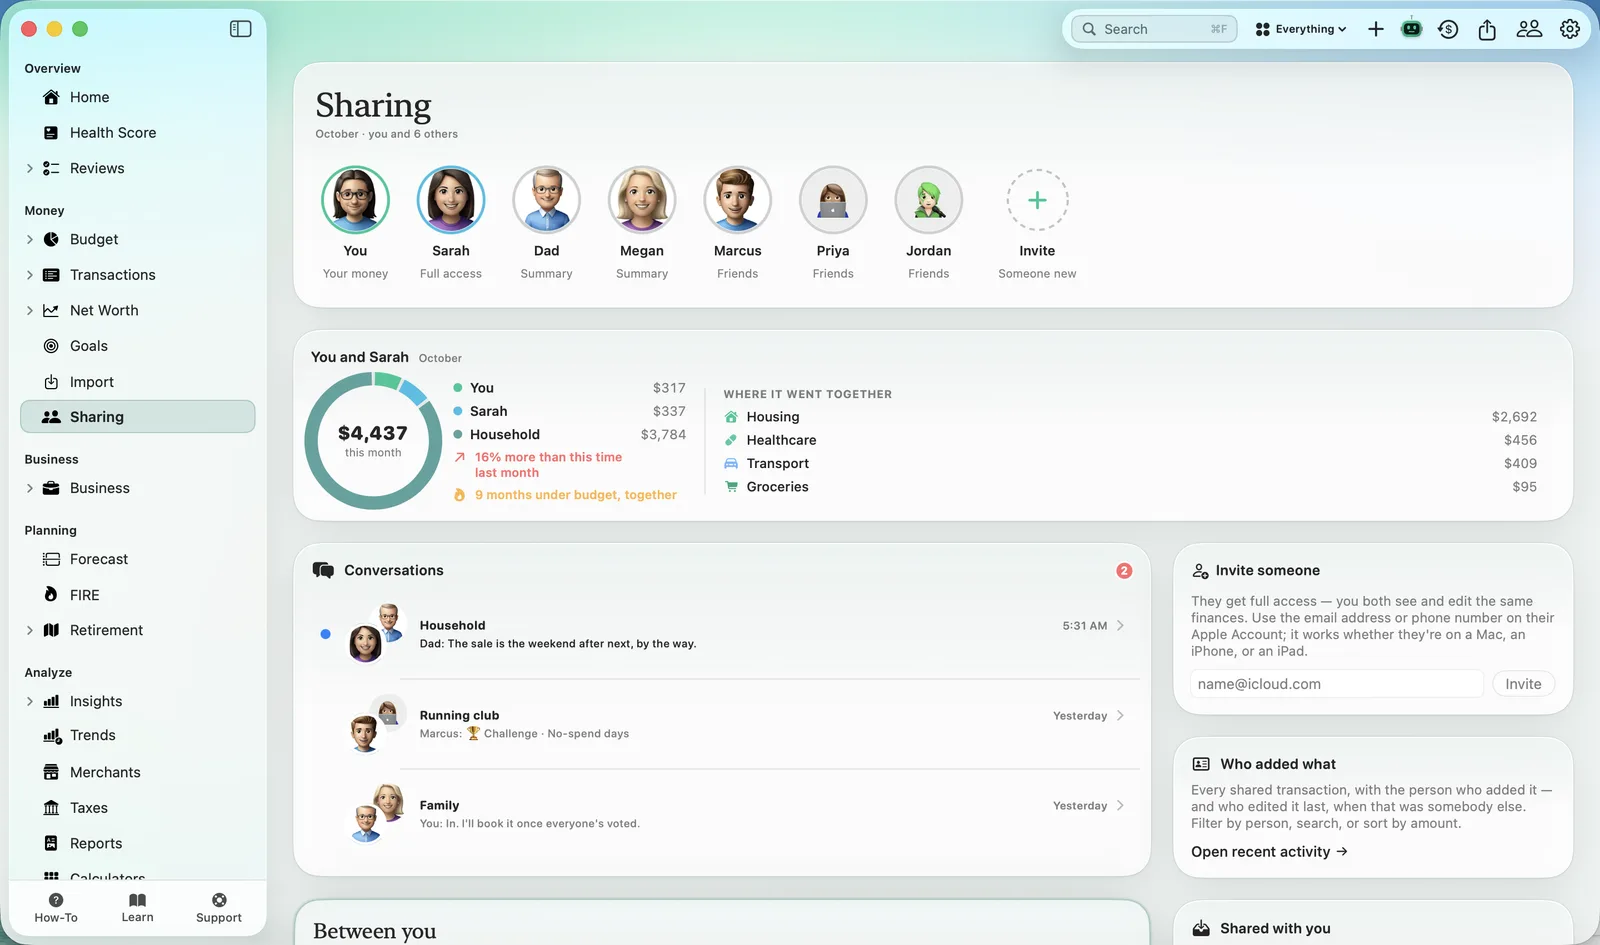
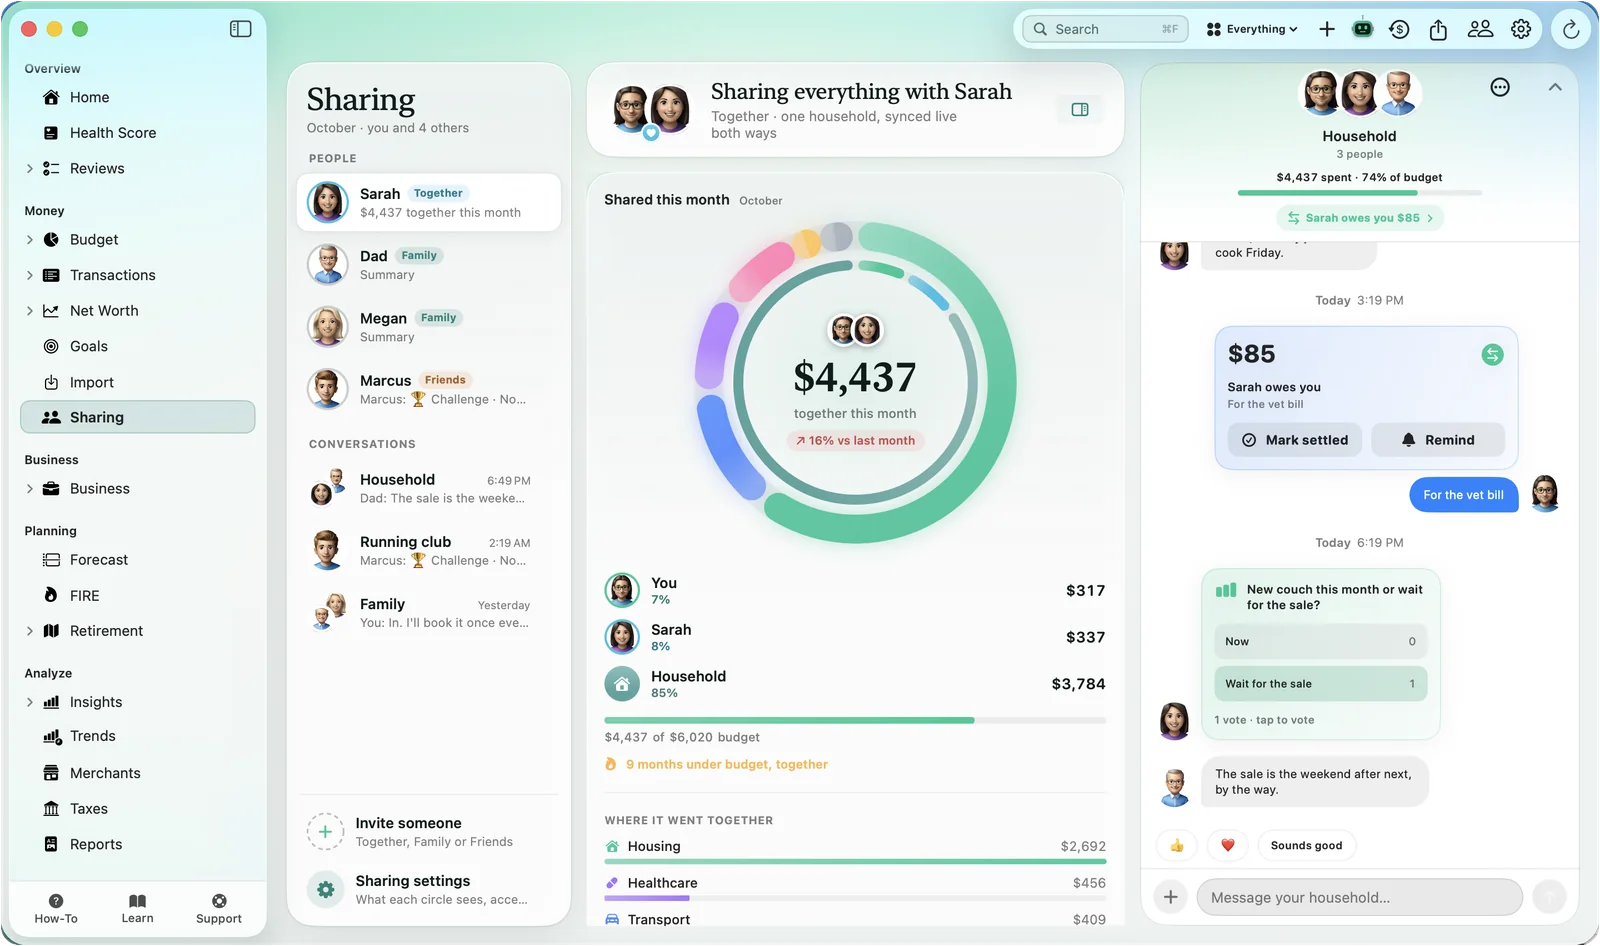
3.0 preview: Mac Transactions split view, day card, category chooser, Investments, new Sharing; the two-ring shared month on iPhone

diff --git a/preview-3/index.html b/preview-3/index.html
@@ -255,7 +255,7 @@
       <h2 class="serif">Together</h2>
       <p class="sub">Sharing rebuilt around how people really run money. Couples share one household. Family see a summary, both ways. Friends compare only the numbers they choose. Anything can be kept private.</p>
       <div class="grid" data-phones='[
-        ["sharing","Sharing","Everyone you share with, and the household’s month as one ring."],
+        ["sharing","Sharing","Everyone you share with, and the month as two rings: where it went, and who paid."],
         ["family-4","Side by side","You and Dad: spent, income, left over and net worth."],
         ["viewer","Open their app","Dad’s whole app, view only, when he chooses to open his books."],
         ["people-3","What they see of you","Share or hide anything in one tap."],
@@ -283,7 +283,7 @@
     <h2 class="serif">On Mac</h2>
     <p class="sub">The same design built for a big window: a sidebar for every section, wide dashboards, and detail screens that open in windows of their own.</p>
     <div class="mac" data-mac='[
-      ["mac-home","Home","Cash flow, net worth and the budget side by side.",945],
+      ["mac-home","Home","Cash flow, net worth and the budget side by side.",946],
       ["mac-budget","Budget","Every category ring, the month at a glance and a spending curve.",945],
       ["mac-networth","Net worth","Trajectory, allocation, accounts and the next milestone.",866],
       ["mac-fire","FIRE","Lean, Fat and Coast FIRE with your assumptions beside the chart.",945],
@@ -291,9 +291,12 @@
       ["mac-trends","Trends","A spending heatmap, savings rate and two years of income against expenses.",945],
       ["mac-together","A partner, in their own window","Your shared month, household chat, and what’s kept private.",1085],
       ["mac-friend","A friend’s scorecard","Only the numbers each of you chose to share.",1085],
-      ["mac-transactions","Transactions","Day cards, inline categories and every keyboard shortcut.",945],
+      ["mac-transactions","Transactions","The ledger on the left, the transaction you pick on the right: its category, account, and that merchant over time.",948],
+      ["mac-calendar","Click any day","The day as a card: what came in, what went out, and the biggest spend.",946],
+      ["mac-category","Choose a category","Search, what this merchant was filed under before, and every category as a tile.",1062],
       ["mac-plan","Retirement plan","The chance it lasts, with every lever beside the chart.",945],
-      ["mac-sharing","Sharing","Everyone you share with, the household ring and the chats.",945],
+      ["mac-sharing","Sharing","People on the left, your shared month in the middle, the conversation beside it.",946],
+      ["mac-investments","Investments","Portfolio value, return and a holdings mix you can read at a glance.",946],
       ["mac-forecast","Cash flow forecast","Your balance 90 days out, with the next bills and paydays.",945],
       ["mac-allocation","Allocation","Current mix against your target, and a map of every holding.",945],
       ["mac-bills","Recurring","What’s due in the next two weeks, bills and income side by side.",945]
@@ -346,27 +349,27 @@
 
   document.querySelectorAll('[data-phones]').forEach(function (g) {
     g.innerHTML = JSON.parse(g.dataset.phones).map(function (p) {
-      return '<figure><div class="phone"><img src="img/' + p[0] + '.webp?v=5" alt="' + esc(p[1] + ': ' + p[2]) +
+      return '<figure><div class="phone"><img src="img/' + p[0] + '.webp?v=6" alt="' + esc(p[1] + ': ' + p[2]) +
         '" loading="lazy" decoding="async" width="600" height="1304"></div>' + cap(p[1], p[2]) + '</figure>';
     }).join('');
   });
 
   document.querySelectorAll('[data-watch]').forEach(function (g) {
     g.innerHTML = JSON.parse(g.dataset.watch).map(function (p) {
-      return '<figure><div class="watch"><img src="img/' + p[0] + '.webp?v=5" alt="' + esc(p[1] + ': ' + p[2]) +
+      return '<figure><div class="watch"><img src="img/' + p[0] + '.webp?v=6" alt="' + esc(p[1] + ': ' + p[2]) +
         '" loading="lazy" decoding="async" width="416" height="496"></div>' + cap(p[1], p[2]) + '</figure>';
     }).join('');
   });
 
   document.querySelectorAll('[data-mac]').forEach(function (g) {
     g.innerHTML = JSON.parse(g.dataset.mac).map(function (p) {
-      return '<figure><div class="screen"><img src="img/' + p[0] + '.webp?v=5" alt="' + esc(p[1] + ': ' + p[2]) +
+      return '<figure><div class="screen"><img src="img/' + p[0] + '.webp?v=6" alt="' + esc(p[1] + ': ' + p[2]) +
         '" loading="lazy" decoding="async" width="1600" height="' + p[3] + '"></div>' + cap(p[1], p[2]) + '</figure>';
     }).join('');
   });
 
   var reduce = window.matchMedia('(prefers-reduced-motion: reduce)').matches;
-  var V = '?v=5';
+  var V = '?v=6';
   document.querySelectorAll('[data-videos]').forEach(function (g) {
     g.innerHTML = JSON.parse(g.dataset.videos).map(function (v) {
       return '<figure><div class="phone"><span class="badge">Video</span><video muted loop playsinline controls ' +
